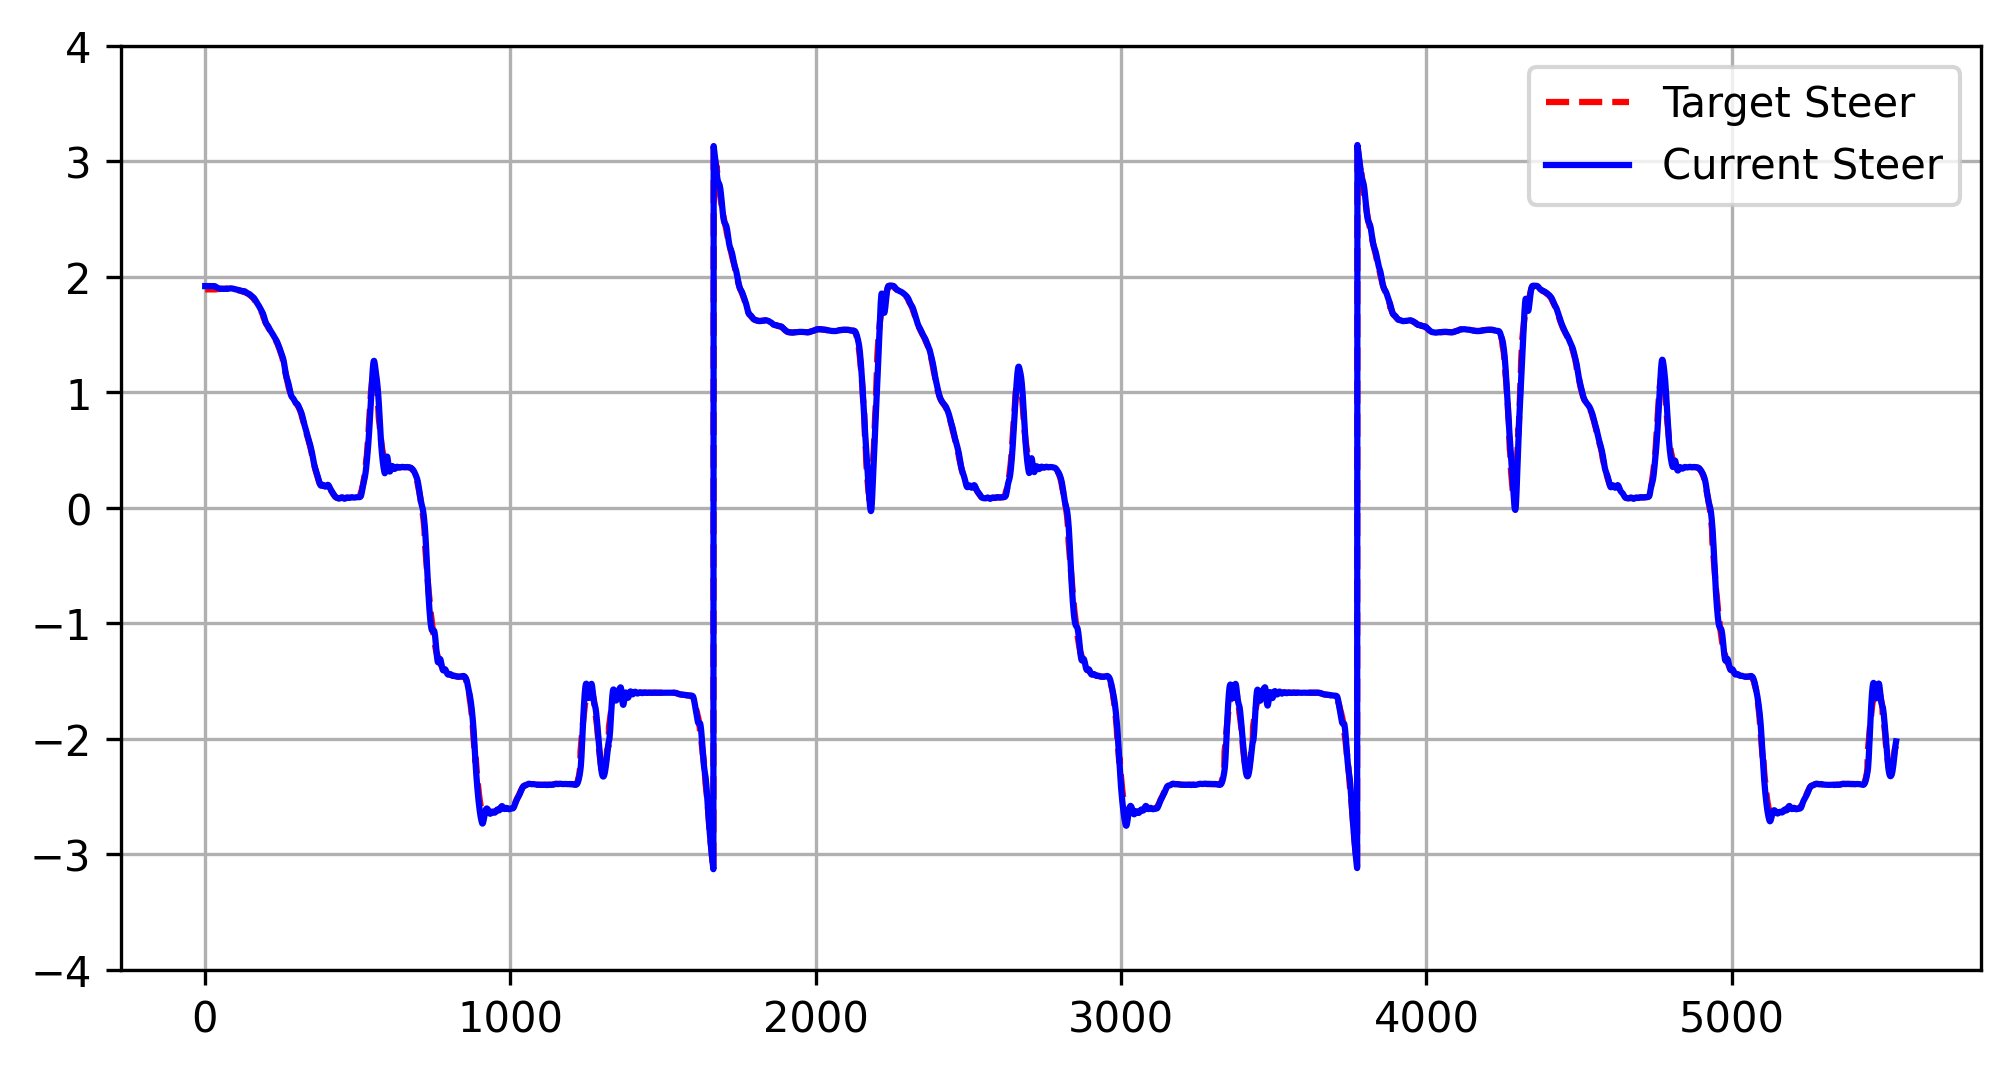
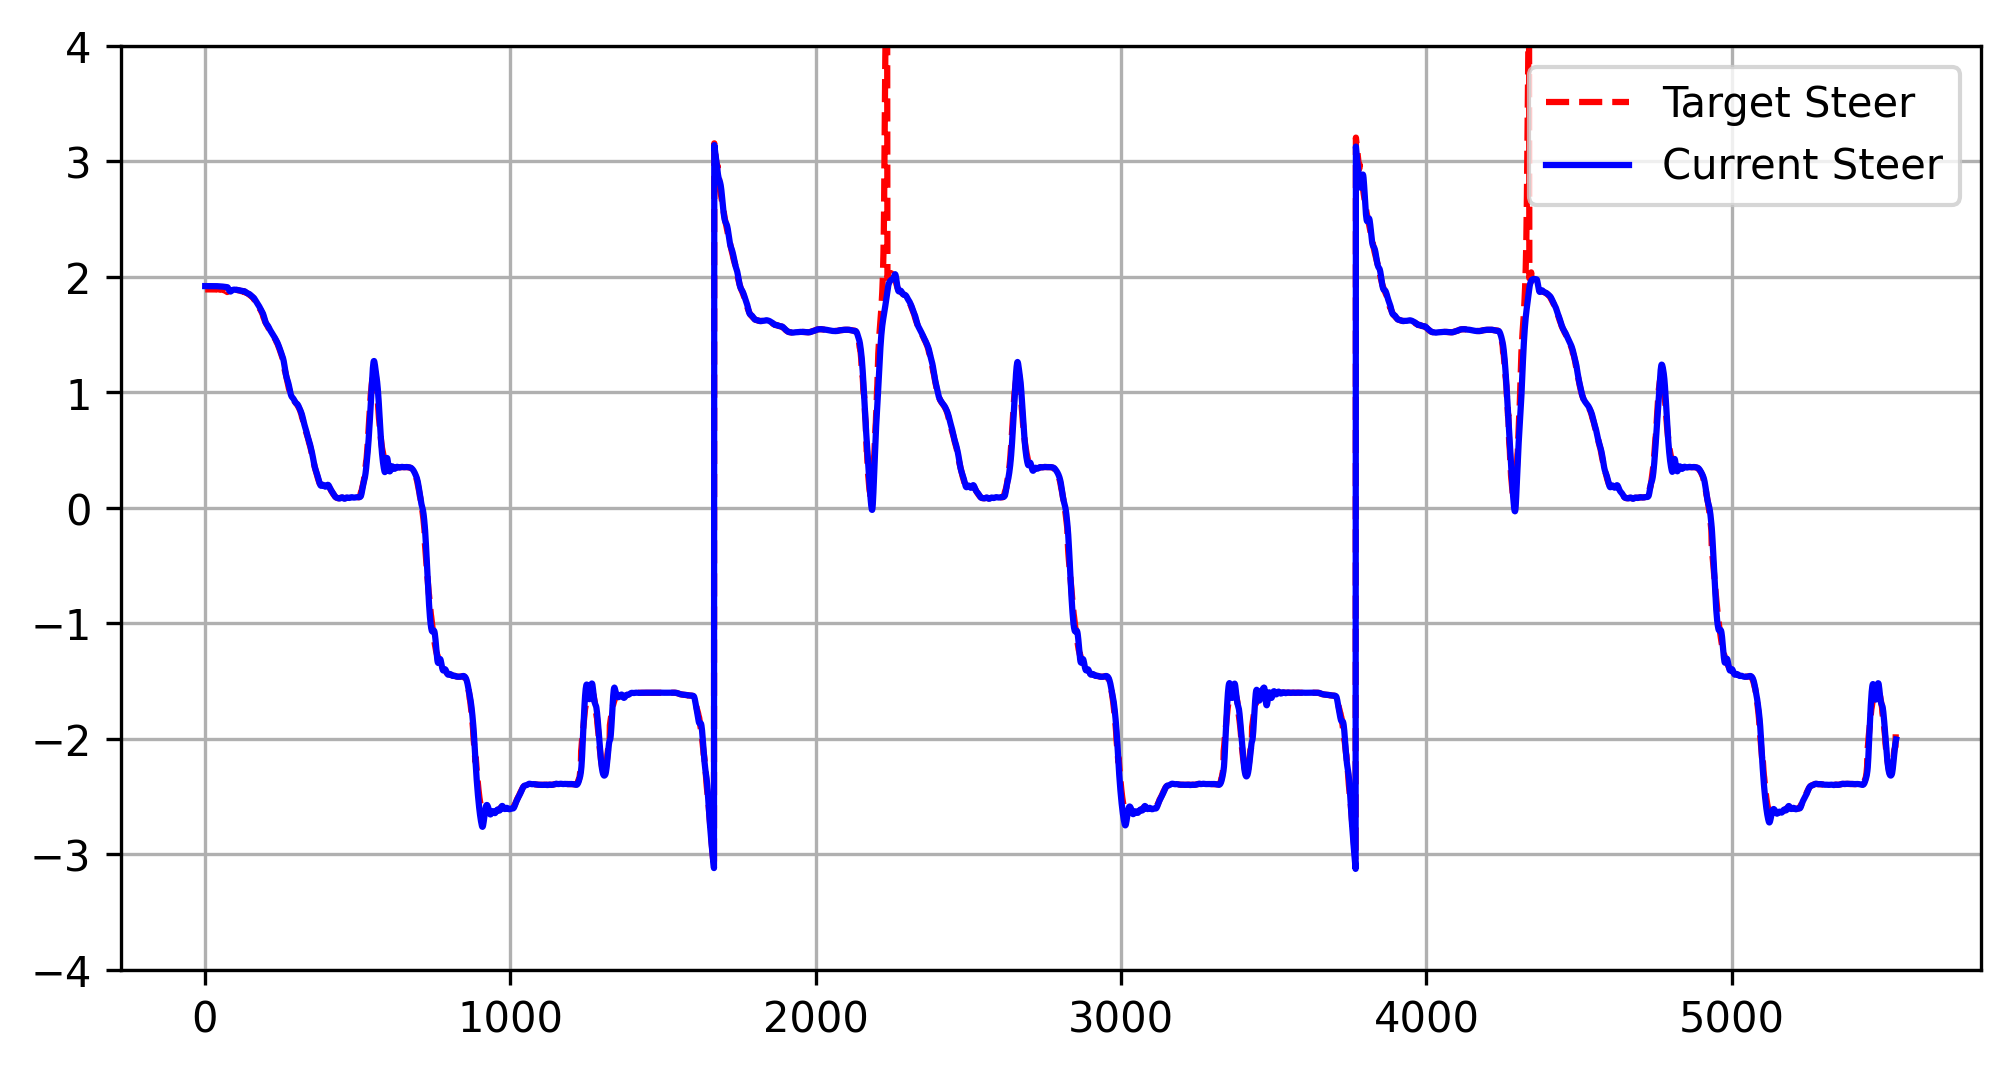
hood changes day 2

diff --git a/competition_code/submission.py b/competition_code/submission.py
@@ -45,7 +45,7 @@ class RoarCompetitionSolution:
         self.collision_sensor = collision_sensor
     
     async def initialize(self) -> None:
-        self.maneuverable_waypoints = roar_py_interface.RoarPyWaypoint.load_waypoint_list(np.load("waypoints/waypointsV8.npz"))
+        self.maneuverable_waypoints = roar_py_interface.RoarPyWaypoint.load_waypoint_list(np.load("waypoints/waypointsV7.npz"))
 
         vehicle_location = self.location_sensor.get_last_gym_observation()
 
@@ -94,6 +94,7 @@ class RoarCompetitionSolution:
 
         self.steer_controller.set_setpoint(target_steer)
         steer_control = -self.steer_controller.calculate(current_steer)
+        steer_control = np.clip(steer_control, -1.0, 1.0)
         steer_control = Tuner.tune_steer(steer_control, self.current_waypoint_idx)
         steer_normalized = np.clip(steer_control, -1.0, 1.0)
 

diff --git a/competition_code/util/Tuner.py b/competition_code/util/Tuner.py
@@ -39,6 +39,9 @@ class Tuner:
         if (830 <= waypoint < 860): return max(steer * 1.5, 0)
         if (860 <= waypoint <= 880): return steer * 0.4
         if (1425 <= waypoint <= 1450): return min(steer, 0)
+        if (2570 <= waypoint <= 2600): return steer * 0.9
+        if (2610 <= waypoint <= 2620): return steer * 0.5
+        if (waypoint > 2620): return steer * 0.05
         return steer
 
     @staticmethod
